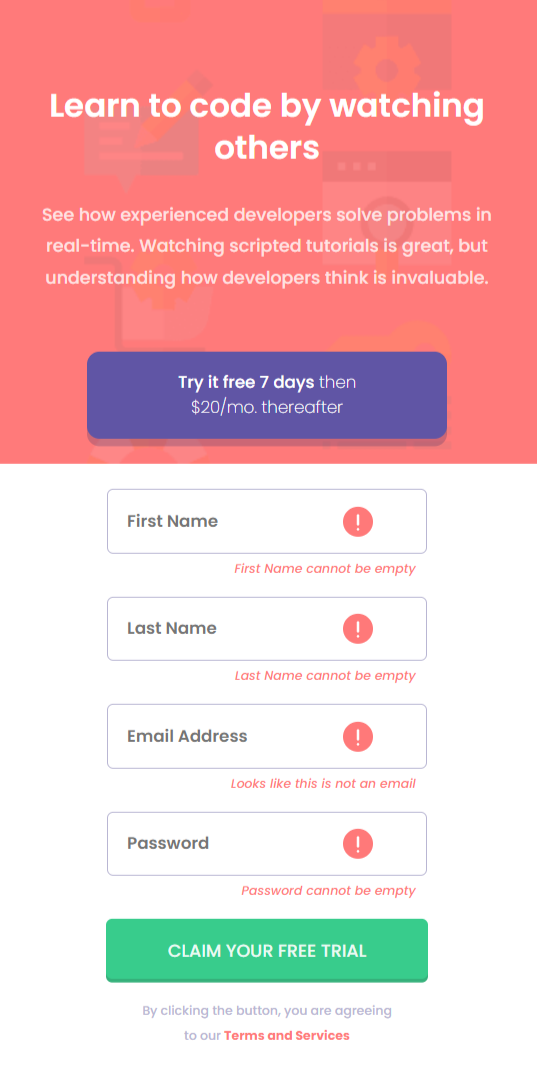
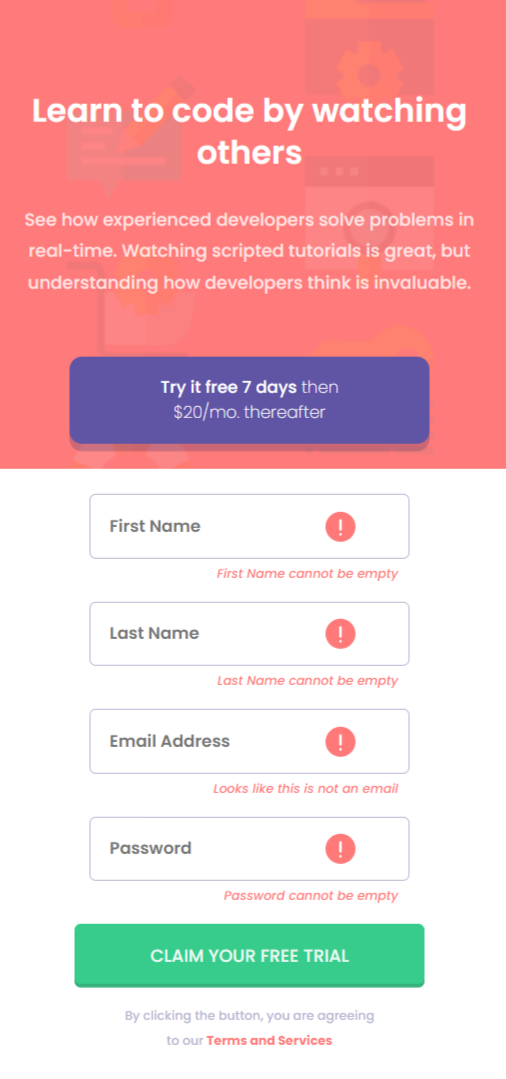
update on images and also style.css

diff --git a/style.css b/style.css
@@ -236,7 +236,7 @@ p {
     }
 
     #claim-button {
-        width: 258px;
+        width: 280px;
     }
 
     .form-last-p-container {
@@ -301,7 +301,7 @@ p {
     }
 
     #claim-button {
-        width: 258px;
+        width: 280px;
     }
 
     .form-last-p-container {
